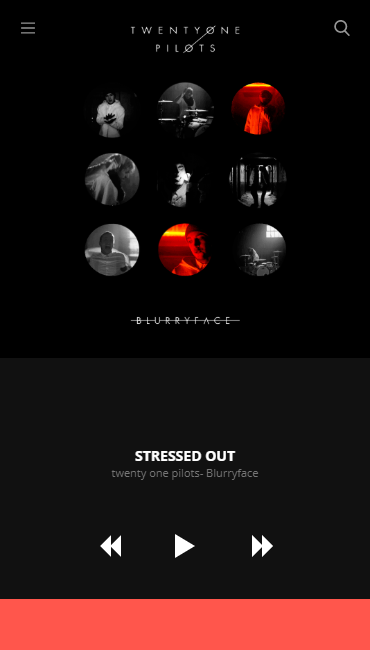
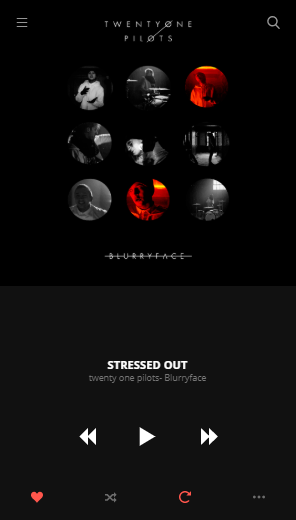
Justificacion terminada

diff --git a/justificacion.md b/justificacion.md
@@ -2,7 +2,7 @@
 
 Maquetación e interacción básica de un reproductor multimedia(reproducción de un archivo mp3).
 
-### Bocetos planteados a Mano
+### Bocetos planteados a mano
 
 ![](assets/images/repro1.jpg)
 
@@ -20,7 +20,7 @@ Maquetación e interacción básica de un reproductor multimedia(reproducción d
 
 (Descartado).
 
-### **Desarrollo de Maqueta Escogida.**
+### **Desarrollo de maqueta escogida.**
 
 ![](assets/images/MusicPlayer.jpg)
 
@@ -28,8 +28,15 @@ En primera instancia se dividió el reproductor en dos partes: top y bottom.
 
 ![](assets/images/container.png)
 
-    >height: 55% para top.
-    >height: 45% para bottom.
+#top
+![](assets/images/top.png)
+>   height: 55%;
+
+#bottom
+![](assets/images/bottom.png)
+>   height: 45%;
+
+# Display flex como gran ayuda
 
 Para el desarrollo de este reproductor se utilizó en la mayoría de contendedores un display: flex
 ya que nos permitía ubicar los elementos hijos como en el modelo a seguir de una manera sencilla.
@@ -38,16 +45,19 @@ Por ejemplo:
 
 ![](assets/images/controls.png)
 
-    >display: flex;
-    >justify-content: space-between;
+>   display: flex;
+>   justify-content: space-between;
 
 
 ![](assets/images/footer.png)
 
-    >display: flex;
-    >justify-content: space-around;
+ >  display: flex;
+ >  align-items: center;
+ >  justify-content: space-around;
 
 >A diferencia del ejemplo anterior, se usa space-around para que también haya una separación con el borde de su
 >contenedor y así evitar usar un padding en los laterales.
+
+>Todos los botones del footer reaccionan al click y al hover.
 
 **Elaborado por:** Santiago Gálvez, Francisco Jiménez.
